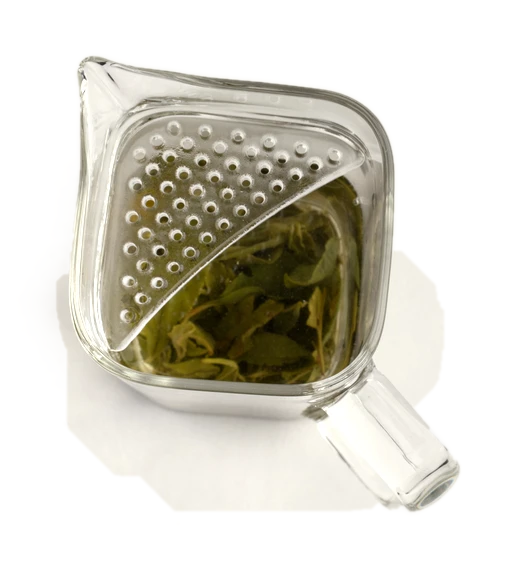
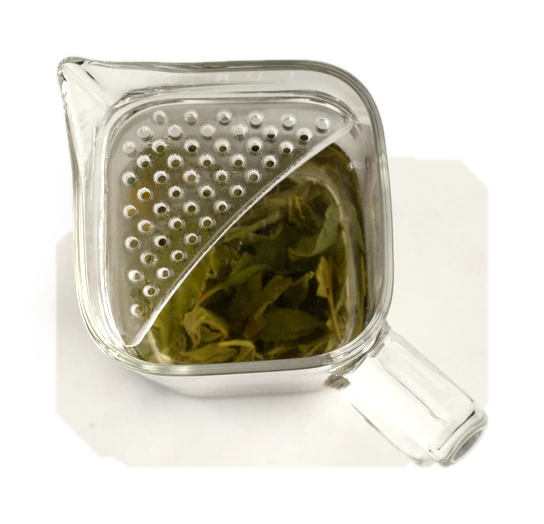
Steeper PDP: red packshot leads as THE STEEPER, filter shot squared
Gallery is now three frames: the liquor packshot opens as THE STEEPER
(also og:image + stage default), the green mid-steep hero is retired,
and the top-down filter shot is rebuilt at +3.88deg total so the mouth
sits level (first pass rotated the wrong way).

diff --git a/koyo-site/gear/simple-steeper.html b/koyo-site/gear/simple-steeper.html
@@ -8,7 +8,7 @@
   <meta property="og:title" content="Sejak 세작 — Single-Origin Korean Green Tea | Koyo" />
   <meta property="og:description" content="Premium Korean sejak green tea, hand-picked in late April in Hadong, South Korea. Soft, balanced, fresh, steeping to light gold and jade." />
   <meta property="og:type" content="product" />
-  <meta property="og:image" content="../assets/img/gear/steeper-hero.webp" />
+  <meta property="og:image" content="../assets/img/gear/steeper-liquor.webp" />
   <link rel="icon" type="image/png" href="../assets/img/favicon.png" />
   <script>document.documentElement.classList.add("js");</script>
 
@@ -97,17 +97,14 @@
 
         <div class="tea-gallery" data-reveal>
           <div class="tea-stage">
-            <img id="tea-stage-img" src="../assets/img/gear/steeper-hero.webp" alt="The Simple Steeper" />
+            <img id="tea-stage-img" src="../assets/img/gear/steeper-liquor.webp" alt="The Simple Steeper" />
           </div>
           <div class="tea-thumbs">
-            <button class="tea-thumb is-active" data-src="../assets/img/gear/steeper-hero.webp">
-              <img src="../assets/img/gear/steeper-hero.webp" alt="" loading="lazy" /><span class="mono">THE STEEPER</span>
+            <button class="tea-thumb is-active" data-src="../assets/img/gear/steeper-liquor.webp">
+              <img src="../assets/img/gear/steeper-liquor.webp" alt="" loading="lazy" /><span class="mono">THE STEEPER</span>
             </button>
             <button class="tea-thumb" data-src="../assets/img/gear/steeper-filter.webp">
               <img src="../assets/img/gear/steeper-filter.webp" alt="" loading="lazy" /><span class="mono">THE FILTER</span>
-            </button>
-            <button class="tea-thumb" data-src="../assets/img/gear/steeper-liquor.webp">
-              <img src="../assets/img/gear/steeper-liquor.webp" alt="" loading="lazy" /><span class="mono">THE LIQUOR</span>
             </button>
             <button class="tea-thumb" data-src="../assets/img/gear/steeper-pour.webp">
               <img src="../assets/img/gear/steeper-pour.webp" alt="" loading="lazy" /><span class="mono">THE POUR</span>

diff --git a/build-gear-pages.py b/build-gear-pages.py
@@ -29,12 +29,11 @@ GEAR = {
         ],
         "variant_label": None,
         "variants": [
-            ("glass", "Clear Glass · 500 ml", 19.00, "steeper-hero.webp"),
+            ("glass", "Clear Glass · 500 ml", 19.00, "steeper-liquor.webp"),
         ],
         "gallery": [
-            ("steeper-hero.webp", "THE STEEPER"),
+            ("steeper-liquor.webp", "THE STEEPER"),
             ("steeper-filter.webp", "THE FILTER"),
-            ("steeper-liquor.webp", "THE LIQUOR"),
             ("steeper-pour.webp", "THE POUR"),
         ],
         "band": ("steeper-scene.jpg",
